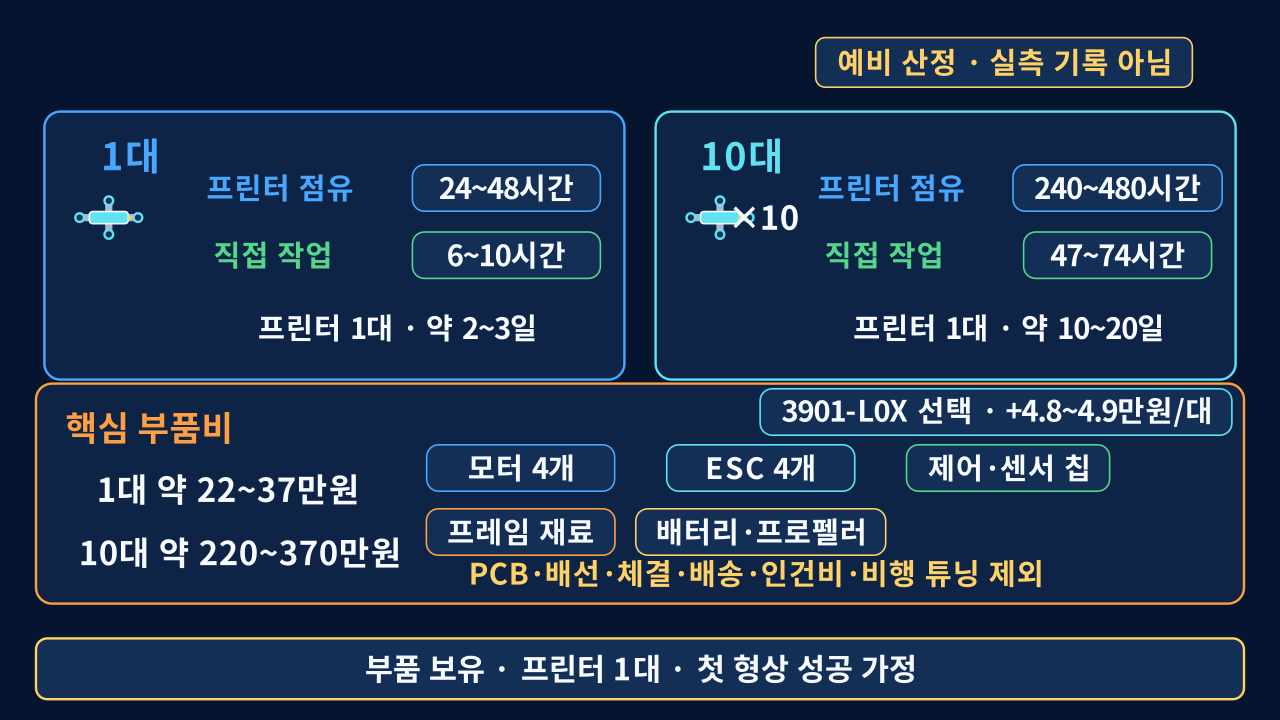
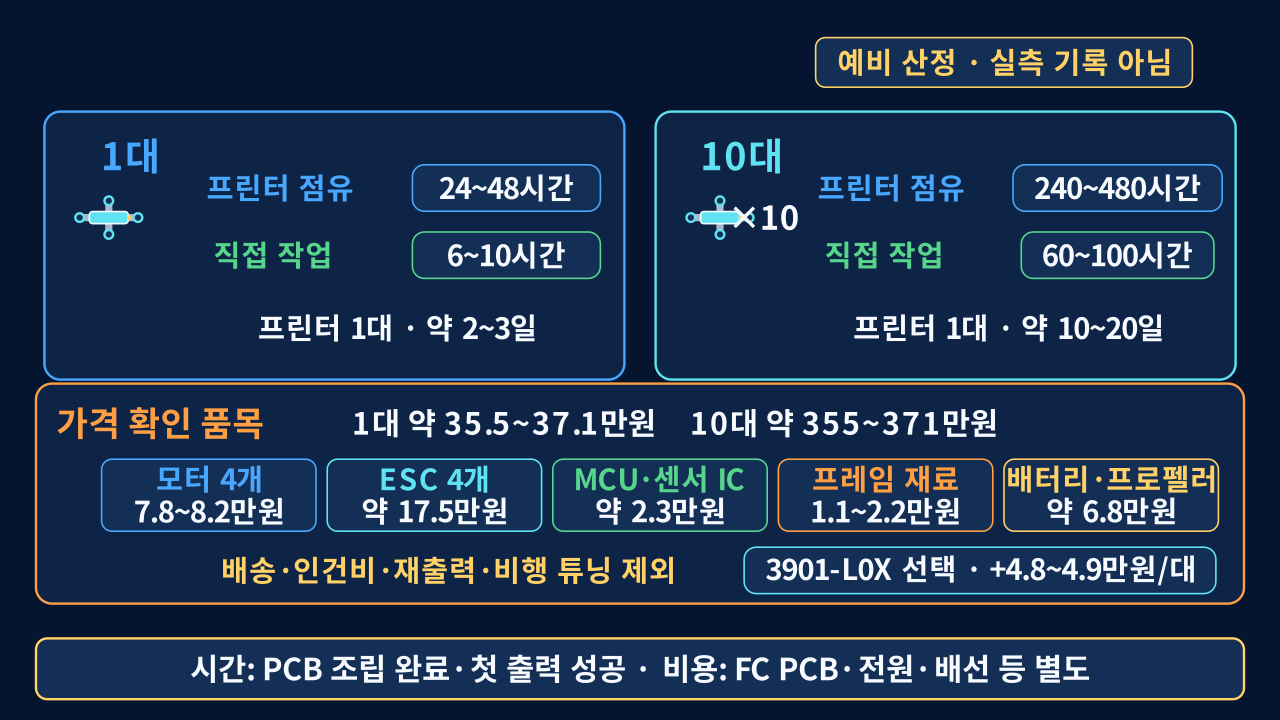
fix: ground drone production estimate

Changed region(s): [[0.0312, 0.55, 0.9688, 0.825], [0.1562, 0.8861, 0.8438, 0.9472], [0.7812, 0.3361, 0.9688, 0.3972]]

diff --git a/tools/test_presentation_visualizations.py b/tools/test_presentation_visualizations.py
@@ -196,15 +196,24 @@ STATIC_REQUIRED_TEXT = {
         "10대",
         "프린터점유",
         "직접작업",
-        "핵심부품비",
+        "6~10시간",
+        "60~100시간",
+        "가격확인품목",
+        "1대약35.5~37.1만원",
+        "10대약355~371만원",
         "모터4개",
+        "7.8~8.2만원",
         "ESC4개",
-        "제어·센서칩",
+        "약17.5만원",
+        "MCU·센서IC",
+        "약2.3만원",
         "프레임재료",
+        "1.1~2.2만원",
         "배터리·프로펠러",
+        "약6.8만원",
         "3901-L0X선택·+4.8~4.9만원/대",
-        "부품보유·프린터1대·첫형상성공가정",
-        "PCB·배선·체결·배송·인건비·비행튜닝제외",
+        "시간:PCB조립완료·첫출력성공·비용:FCPCB·전원·배선등별도",
+        "배송·인건비·재출력·비행튜닝제외",
     },
 }
 STATIC_FORBIDDEN_TEXT = {
@@ -390,12 +399,29 @@ class PresentationProductionEstimateEvidenceTests(unittest.TestCase):
         self.assertEqual(one["hands_on_hours"], [6, 10])
         self.assertEqual(one["elapsed_days_one_printer"], [2, 3])
         self.assertEqual(ten["printer_hours_one_printer"], [240, 480])
-        self.assertEqual(ten["hands_on_hours"], [47, 74])
+        self.assertEqual(ten["hands_on_hours"], [60, 100])
         self.assertEqual(ten["elapsed_days_one_printer"], [10, 20])
         self.assertEqual(
             ten["printer_hours_one_printer"],
             [value * 10 for value in one["printer_hours"]],
         )
+        self.assertEqual(
+            ten["hands_on_hours"],
+            [value * 10 for value in one["hands_on_hours"]],
+        )
+        breakdown = one["hands_on_breakdown_hours"]
+        self.assertEqual(
+            [sum(bounds[index] for bounds in breakdown.values()) for index in (0, 1)],
+            one["hands_on_hours"],
+        )
+        print_model = self.data["basis"]["print_model"]
+        calculated_printer_hours = [
+            round(
+                mass_kg * 1000 / print_model["effective_output_grams_per_hour"]
+            )
+            for mass_kg in print_model["printed_mass_kg_per_unit"]
+        ]
+        self.assertEqual(calculated_printer_hours, one["printer_hours"])
 
     def test_cost_estimate_keeps_required_categories_and_unknowns_visible(self) -> None:
         cost = self.data["cost"]
@@ -418,7 +444,13 @@ class PresentationProductionEstimateEvidenceTests(unittest.TestCase):
             cost["ten_units_core_subtotal_krw"],
             [value * 10 for value in cost["one_unit_core_subtotal_krw"]],
         )
+        self.assertEqual(categories["motors_4"], [78000, 82000])
+        self.assertEqual(categories["escs_4"], [175400, 175400])
+        self.assertEqual(cost["one_unit_core_subtotal_krw"], [355300, 370500])
+        self.assertEqual(cost["ten_units_core_subtotal_krw"], [3553000, 3705000])
         self.assertEqual(cost["optional_3901_l0x_per_unit_krw"], [48000, 49000])
+        self.assertFalse(cost["verified_bom"])
+        self.assertEqual(cost["scope"], "reference_components_only")
         for required_exclusion in (
             "custom_fc_pcb_power",
             "wiring_fasteners",
@@ -434,6 +466,7 @@ class PresentationProductionEstimateEvidenceTests(unittest.TestCase):
         self.assertIn("parts_in_stock", basis["assumptions"])
         self.assertIn("one_printer", basis["assumptions"])
         self.assertIn("first_print_success", basis["assumptions"])
+        self.assertIn("assembled_fc_pcb_available", basis["assumptions"])
         self.assertFalse(basis["includes_free_flight_validation"])
 
 
@@ -906,7 +939,7 @@ class PresentationVisualizationLayoutTests(unittest.TestCase):
         excluded = next(
             item
             for item in texts
-            if item.text == "PCB·배선·체결·배송·인건비·비행튜닝제외"
+            if item.text == "배송·인건비·재출력·비행튜닝제외"
         )
         optional = next(
             item
@@ -926,7 +959,7 @@ class PresentationVisualizationLayoutTests(unittest.TestCase):
         for category_text in (
             "모터4개",
             "ESC4개",
-            "제어·센서칩",
+            "MCU·센서IC",
             "프레임재료",
             "배터리·프로펠러",
         ):
@@ -944,11 +977,50 @@ class PresentationVisualizationLayoutTests(unittest.TestCase):
                 f"optional sensor badge overlaps {category_text}",
             )
             if horizontal_overlap:
-                self.assertGreater(
-                    optional.get_bottom()[1],
-                    category.get_top()[1] + 0.18,
+                vertical_gap = max(
+                    optional.get_bottom()[1] - category.get_top()[1],
+                    category.get_bottom()[1] - optional.get_top()[1],
+                )
+                self.assertGreaterEqual(
+                    vertical_gap,
+                    0.18,
                     f"optional sensor badge crowds {category_text}",
                 )
+
+        paired_cost_text = {
+            "모터4개": "7.8~8.2만원",
+            "ESC4개": "약17.5만원",
+            "MCU·센서IC": "약2.3만원",
+            "프레임재료": "1.1~2.2만원",
+            "배터리·프로펠러": "약6.8만원",
+        }
+        category_cards = [
+            item
+            for item in self._mobjects(scene)
+            if type(item).__name__ == "RoundedRectangle"
+            and 2.6 < item.width < 2.8
+            and 0.8 < item.height < 1.0
+        ]
+        self.assertEqual(len(category_cards), 5)
+        for name_text, value_text in paired_cost_text.items():
+            name = next(item for item in texts if item.text == name_text)
+            value = next(item for item in texts if item.text == value_text)
+            self.assertAlmostEqual(
+                name.get_center()[0], value.get_center()[0], delta=0.08
+            )
+            self.assertGreater(name.get_center()[1], value.get_center()[1])
+            self.assertLess(name.get_center()[1] - value.get_center()[1], 0.6)
+            card = min(
+                category_cards,
+                key=lambda item: abs(item.get_center()[0] - name.get_center()[0]),
+            )
+            for label in (name, value):
+                self.assertGreaterEqual(label.get_left()[0], card.get_left()[0] + 0.04)
+                self.assertLessEqual(label.get_right()[0], card.get_right()[0] - 0.04)
+                self.assertGreaterEqual(
+                    label.get_bottom()[1], card.get_bottom()[1] + 0.04
+                )
+                self.assertLessEqual(label.get_top()[1], card.get_top()[1] - 0.04)
 
     def test_telemetry_evidence_badge_clears_content_panels(self) -> None:
         from manim import tempconfig

diff --git a/docs/presentations/ai-startup-camp-drone/visualizations/static_diagram_visualizations.py b/docs/presentations/ai-startup-camp-drone/visualizations/static_diagram_visualizations.py
@@ -9,6 +9,7 @@ or takeaway line.
 from __future__ import annotations
 
 import json
+from decimal import Decimal, ROUND_HALF_UP
 from math import cos
 from pathlib import Path
 
@@ -1130,12 +1131,46 @@ class ProductionEstimateStatic(StaticDiagramScene):
         return f"{values[0]:g}~{values[1]:g}{suffix}"
 
     @staticmethod
-    def _money_range(values, scale: int, rounded_to: int = 1) -> str:
-        low = values[0] / scale
-        high = values[1] / scale
-        if rounded_to == 1:
-            return f"약 {low:.0f}~{high:.0f}만원"
-        return f"약 {round(low / rounded_to) * rounded_to:.0f}~{round(high / rounded_to) * rounded_to:.0f}만원"
+    def _money_range(values, scale: int, decimals: int = 1) -> str:
+        quantum = Decimal("1") if decimals == 0 else Decimal("0.1")
+        low = (Decimal(values[0]) / Decimal(scale)).quantize(
+            quantum, rounding=ROUND_HALF_UP
+        )
+        high = (Decimal(values[1]) / Decimal(scale)).quantize(
+            quantum, rounding=ROUND_HALF_UP
+        )
+        return f"약 {low:.{decimals}f}~{high:.{decimals}f}만원"
+
+    @staticmethod
+    def _single_money(values) -> str:
+        low = (Decimal(values[0]) / Decimal(10000)).quantize(
+            Decimal("0.1"), rounding=ROUND_HALF_UP
+        )
+        high = (Decimal(values[1]) / Decimal(10000)).quantize(
+            Decimal("0.1"), rounding=ROUND_HALF_UP
+        )
+        if values[0] == values[1]:
+            return f"약 {low:.1f}만원"
+        return f"{low:.1f}~{high:.1f}만원"
+
+    @staticmethod
+    def _cost_item(name: str, value: str, color: str) -> VGroup:
+        panel = RoundedRectangle(
+            width=2.68,
+            height=0.9,
+            corner_radius=0.13,
+            fill_color=PANEL_2,
+            fill_opacity=1,
+            stroke_color=color,
+            stroke_width=2,
+        )
+        name_label = text(name, 24, color, "BOLD").move_to(
+            panel.get_center() + UP * 0.2
+        )
+        value_label = text(value, 24, WHITE, "BOLD").move_to(
+            panel.get_center() + DOWN * 0.2
+        )
+        return VGroup(panel, name_label, value_label)
 
     def _time_panel(
         self,
@@ -1208,47 +1243,54 @@ class ProductionEstimateStatic(StaticDiagramScene):
         )
 
         cost_panel = card(15.1, 2.75, ORANGE).move_to(DOWN * 1.67)
-        cost_heading = text("핵심 부품비", 28, ORANGE, "BOLD")
-        cost_heading.move_to(cost_panel.get_center() + LEFT * 6.15 + UP * 0.82)
+        cost_heading = text("가격 확인 품목", 28, ORANGE, "BOLD")
+        cost_heading.move_to(cost_panel.get_center() + LEFT * 6.0 + UP * 0.88)
         one_cost = text(
             "1대 " + self._money_range(cost["one_unit_core_subtotal_krw"], 10000),
-            27,
+            25,
             WHITE,
             "BOLD",
-        ).move_to(cost_panel.get_center() + LEFT * 5.15 + UP * 0.05)
+        ).move_to(cost_panel.get_center() + LEFT * 1.7 + UP * 0.88)
         ten_cost = text(
             "10대 "
             + self._money_range(
-                cost["ten_units_core_subtotal_krw"], 10000, rounded_to=10
+                cost["ten_units_core_subtotal_krw"], 10000, decimals=0
             ),
-            27,
+            25,
             WHITE,
             "BOLD",
-        ).move_to(cost_panel.get_center() + LEFT * 5.0 + DOWN * 0.74)
+        ).move_to(cost_panel.get_center() + RIGHT * 2.55 + UP * 0.88)
 
-        category_names = (
-            ("모터 4개", BLUE),
-            ("ESC 4개", CYAN),
-            ("제어·센서 칩", GREEN),
-            ("프레임 재료", ORANGE),
-            ("배터리·프로펠러", YELLOW),
+        category_specs = (
+            ("모터 4개", "motors_4", BLUE),
+            ("ESC 4개", "escs_4", CYAN),
+            ("MCU·센서 IC", "control_sensor_chips", GREEN),
+            ("프레임 재료", "frame_material", ORANGE),
+            ("배터리·프로펠러", "battery_propellers", YELLOW),
         )
         categories = VGroup(
             *[
-                label_pill(name, color, 2.35 if index < 4 else 2.9)
-                for index, (name, color) in enumerate(category_names)
+                self._cost_item(
+                    name,
+                    self._single_money(cost["one_unit_categories_krw"][key]),
+                    color,
+                )
+                for name, key, color in category_specs
             ]
-        ).arrange_in_grid(rows=2, cols=3, buff=(0.26, 0.22))
-        categories.move_to(cost_panel.get_center() + RIGHT * 1.6 + DOWN * 0.08)
+        ).arrange(RIGHT, buff=0.14)
+        categories.move_to(cost_panel.get_center() + RIGHT * 0.25 + DOWN * 0.02)
         optional = label_pill("3901-L0X 선택 · +4.8~4.9만원/대", CYAN, 5.15)
-        optional.move_to(cost_panel.get_center() + RIGHT * 4.45 + UP * 1.02)
+        optional.move_to(cost_panel.get_center() + RIGHT * 4.25 + DOWN * 0.96)
         excluded = text(
-            "PCB·배선·체결·배송·인건비·비행 튜닝 제외",
+            "배송·인건비·재출력·비행 튜닝 제외",
             24,
             YELLOW,
             "BOLD",
-        ).move_to(cost_panel.get_center() + RIGHT * 1.45 + DOWN * 1.0)
-        note = takeaway("부품 보유 · 프린터 1대 · 첫 형상 성공 가정", YELLOW)
+        ).move_to(cost_panel.get_center() + LEFT * 2.4 + DOWN * 0.96)
+        note = takeaway(
+            "시간: PCB 조립 완료·첫 출력 성공 · 비용: FC PCB·전원·배선 등 별도",
+            YELLOW,
+        )
         self.add(
             badge,
             one_panel,

diff --git a/docs/presentations/ai-startup-camp-drone/PRODUCTION_ESTIMATE.md b/docs/presentations/ai-startup-camp-drone/PRODUCTION_ESTIMATE.md
@@ -2,8 +2,9 @@
 
 이 문서는 발표자료의 `1대와 10대 제작 규모` 장표에 쓰는 계획 가정과 가격 근거를
 기록한다. 저장소에는 완전한 제조 BOM, PCB 생산파일, 슬라이서 결과, 작업시간 기록이
-없다. 따라서 아래 값은 실적 원가가 아니라 부품 재고가 있다는 가정에서 만든
-일정 계획치와 가격이 확인되는 부품의 하한이다. 화면에 쓰는 값의 기계 판독 원본은
+없다. 따라서 아래 값은 실적 원가나 실제 기체의 확정 견적이 아니다. 부품 재고가
+있다는 가정의 일정 시나리오와, 대체 부품을 포함해 가격이 확인되는 품목의 참고 합계이다.
+화면에 쓰는 값의 기계 판독 원본은
 [`production_estimate.json`](production_estimate.json)이다.
 
 ## 저장소에서 확인한 구성
@@ -27,38 +28,55 @@
 | 규모 | 프린터 점유 | 직접 작업 | 프린터 1대 기준 경과 |
 |---|---:|---:|---:|
 | 1대 | 24~48시간 | 6~10인시 | 약 2~3일 |
-| 10대 | 240~480시간 | 47~74인시 | 약 10~20일 |
+| 10대 | 240~480시간 | 60~100인시 | 출력과 조립 병행 시 프린터 최소 10~20일 |
 
-다음 조건을 전제로 한 일정 계획치이다.
+프린터 시간은 실측이나 슬라이서 결과가 아니다. 기체당 출력 질량을 0.4~0.8kg,
+유효 출력량을 시간당 16.7g으로 둔 일정 가정이다. 따라서
+`질량 ÷ 유효 출력량 = 24~48시간/대`이며, 10대는 단순히 10배로 확장했다.
+
+직접 작업도 공정별 계획값을 합산했다.
+
+| 직접 작업 공정 | 1대 계획값 |
+|---|---:|
+| 출력 준비·후처리 | 1~2인시 |
+| 프레임·전자부품 조립 | 2~3인시 |
+| 배선·커넥터 작업 | 1~2인시 |
+| 펌웨어 기록·교정·벤치 점검 | 2~3인시 |
+| **합계** | **6~10인시** |
+
+10대 직접 작업은 확인되지 않은 묶음 작업 할인을 넣지 않고 60~100인시로 단순
+확장했다. 다음 조건을 전제로 한 일정 시나리오이다.
 
 - 부품 재고 확보, 기구·회로·펌웨어 설계 완료
 - 프린터 한 대에서 순차 출력
-- 기체당 프린트 소재 0.4~0.8kg, 첫 형상 출력 성공
-- PCB 조립 완료 기준의 납땜·조립·펌웨어 기록·교정·벤치 점검
+- 기체당 프린트 소재 0.4~0.8kg, 첫 출력 성공
+- 조립된 FC PCB가 있는 상태에서 프레임·배선·교정 작업 시작
 - 자유비행 튜닝, 반복 비행 검증, 재출력, 납기 대기는 제외
 
-10대의 직접 작업은 공정 묶음 처리에 따른 계획치이지만, 기체별 센서·모터 방향과
-안전 점검은 생략하지 않는다. 프린터 두 대이면 출력 경과는 약 5~10일, 네 대이면
-약 2.5~5일로 줄어들 수 있다. 사람 작업과 안전 점검은 프린터 수만 늘려도 같은
-비율로 줄지 않는다.
+10~20일은 출력과 조립을 병행할 때의 프린터 점유 최소 기간이지 완성기 납기 약속이
+아니다. 기체별 센서·모터 방향과 안전 점검은 생략하지 않는다. 프린터 두 대이면
+출력 점유는 약 5~10일, 네 대이면 약 2.5~5일로 줄어들 수 있지만 사람 작업과
+안전 점검은 같은 비율로 줄지 않는다.
 
 ## 가격이 확인되는 핵심 부품
 
-조회 가격은 판매처와 수량에 따라 바뀔 수 있다. 해외 판매가는 배송·관부가세·환전
-수수료를 제외했다.
+아래 값은 실제 구매 SKU가 확정되지 않은 모터에는 대체 부품 참고가를 사용한다.
+ESC는 현행 4S 배터리와의 호환을 명시한 공식 2~4S 제품 가격만 사용했다. 조회 기준은
+2026-08-19이며 계획 환산값은 1 USD=1,425원, 1 AUD=1,001원이다. 해외 판매가는
+배송·관부가세·환전 수수료를 제외했고, 판매처와 환율에 따라 바뀔 수 있다.
 
 | 항목 | 1대 범위 | 산정 근거 |
 |---|---:|---|
-| 모터 4개 | 69,000~82,000원 | DYS 1750KV 4개 판매가와 발표자료의 CCRC 1750KV 대체 판매가 범위 |
-| EMAX BLHeli 30A ESC 4개 | 51,200~175,400원 | 국내 단가와 EMAX 공식 단가 범위. 실제 SKU·4S 적합성 재확인 필요 |
+| 1750KV급 모터 4개 참고가 | 78,000~82,000원 | DYS SUNFUN 2207 1750KV 4개와 CCRC 2004 1750KV 4개의 판매가 범위. 실물 SKU·4S 추력 적합성 미확정 |
+| EMAX BLHeli 30A ESC 4개 참고가 | 약 175,400원 | EMAX 공식 2~4S 제품가 30.78 USD×4. 4S 불가로 표시된 국내 저가 SKU는 제외 |
 | ESP32-S3 + ICM-42670-P 2개 + BMM350 | 약 22,700원 | DigiKey 단품가 기준 핵심 칩 소계 |
 | 프레임 재료 | 11,200~22,400원 | PLA 28,000원/kg, 0.4~0.8kg 계획 가정 |
 | 배터리 + 프로펠러 | 약 68,000원 | ECOFLUX 배터리와 T4944-3 1세트 참고가 |
-| **가격 확인 가능 부품 소계** | **약 222,100~370,500원** | PCB·배선·체결·배송·인건비 제외 |
-| 선택 3901-L0X | **대당 +48,000~49,000원** | 국내 판매처 참고가 |
+| **가격 확인 가능 참고 부품 합계** | **약 355,300~370,500원** | 완성기 총원가가 아니며 FC PCB·전원·배선·체결·배송·인건비 제외 |
+| 선택 3901-L0X | **대당 +48,000~49,000원** | 국내 재고 참고가. 제조사 EOL 표기이므로 10대 조달 가능성 미확인 |
 
 10대는 수량 할인이나 양산 효과를 가정하지 않고 같은 범위를 단순 확장해 약
-2,221,000~3,705,000원으로 본다. 이는 완성기 총원가가 아니다. 다음 항목은 규격·수량
+3,553,000~3,705,000원으로 본다. 이는 완성기 총원가가 아니다. 다음 항목은 규격·수량
 또는 생산파일이 없어 별도 견적이 필요하다.
 
 - 자체 FC PCB, 전원·보호 회로, 부품 실장
@@ -68,10 +86,9 @@
 
 ## 가격 출처
 
-- DYS 모터: <https://www.dysrc.hk/>
+- DYS 모터: <https://dysrc.hk/product/>
 - CCRC 1750KV급 모터 대체 판매가: <https://rcdrone.top/products/ccrc-sunhey-2004-brushless-motor>
-- EMAX 30A ESC 국내 판매가: <https://ercmall.co.kr/product/esc-emax-bl-heli-30a/4545/>
-- EMAX 30A ESC 공식 판매가: <https://shop.emaxmodel.com/products/blheli-series-30a-esc-oneshot-available>
+- EMAX 30A ESC 공식 판매가: <https://shop.emaxmodel.com/collections/blheli-series-esc-1>
 - ESP32-S3-N16R8: <https://www.digikey.kr/ko/products/detail/espressif-systems/ESP32-S3-WROOM-1U-N16R8/16162641>
 - ICM-42670-P: <https://www.digikey.kr/ko/products/detail/tdk-invensense/ICM-42670-P/14319524>
 - BMM350: <https://www.digikey.kr/en/products/detail/bosch-sensortec/BMM350/17827582>
@@ -79,7 +96,8 @@
 - ECOFLUX 4S 3000mAh: <https://helsel.co.kr/product/ecoflux-3000mah-4s-148v-120c-xt60-%EB%A6%AC%ED%8A%AC%ED%8F%B4%EB%A6%AC%EB%A8%B8-%EB%B0%B0%ED%84%B0%EB%A6%AC-%EC%97%90%EC%BD%94%ED%94%8C%EB%9F%AD%EC%8A%A4/33018/category/1/display/13/>
 - Bambu PLA Basic: <https://kr.store.bambulab.com/products/pla-basic-filament>
 - 3901-L0X 국내 판매가: <https://xcopter.com/product/%EB%A7%88%ED%85%8D-matek-%EC%98%B5%ED%8B%B0%EC%BB%AC-%EB%9D%BC%EC%9D%B4%EB%8B%A4-%EC%84%BC%EC%84%9C-3901-l0x/32509/>, <https://www.rcbank.co.kr/shop/goods/goods_view.php?goodsno=34212>
+- 3901-L0X 제조사 EOL 표기: <https://www.mateksys.com/?portfolio=3901-l0x>
 
 발표 화면에서는 판매처·환율·개별 단가를 나열하지 않는다. `예비 산정`, 가정,
-미포함 항목을 함께 표시하고, 실제 제작 전에는 모터 SKU, PCB 리비전, 슬라이서의
-재료량·시간, PCB 실장 견적을 다시 확정한다.
+미포함 항목을 함께 표시하고, 실제 제작 전에는 모터·ESC SKU, PCB 리비전,
+슬라이서의 재료량·시간, PCB 실장 견적을 다시 확정한다.
